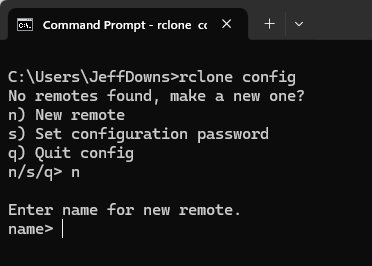
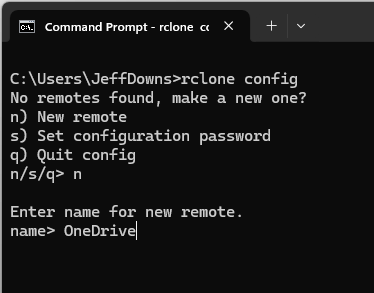
commit

Changed region(s): [[0.0, 0.0, 1.0, 1.0], [0.5323, 0.4211, 0.7392, 0.5414], [0.6801, 0.0602, 1.0, 0.1504]]

diff --git a/HowTo/RCLONE/Readme.md b/HowTo/RCLONE/Readme.md
@@ -23,18 +23,81 @@ rclone config
 
 ![alt text](Pictures/1.png)
 
-5. Type N for New remote
+5. Type N for New remote and give it a name. Pay attention to the name the command we will use later is Case Sensitive
 
 ![alt text](Pictures/2.png)
+
+6. Now you will be presented with a list of cloud sources. Scroll through the list and find OneDrive. For this example 36 will be what we are looking for. 
+
+![alt text](Pictures/3.png)
+
+![alt text](Pictures/4.png)
+
+7. In this example we are going to be using our M365 credentials to log onto our OneDrive. It is optional to setup an enterprise application, but for us just press enter
+
+![alt text](Pictures/5.png)
+
+8. Press enter again
+
+![alt text](Pictures/6.png)
+
+9. Now select your region
+
+![alt text](Pictures/7.png)
+
+10. Again, just press enter
+
+![alt text](Pictures/8.png)
+
+11. Again, just press enter
+
+![alt text](Pictures/9.png)
+
+12. Again, just press enter
+
+![alt text](Pictures/10.png)
+
+13. In another window, it will log you on with your M365 credentials. 
+
+![alt text](Pictures/11.png)
+
+14. Now select option 1 for Onedrive. Notice at this point you can also do sharepoint
+
+![alt text](Pictures/11.png)
+
+15. At this point you will be presented with what you want to connect to. In my example I have 2. I am going to connect to option 2
+
+![alt text](Pictures/12.png)
+
+16. Just press enter to accept the defaults
+
+![alt text](Pictures/13.png)
+
+17. It will create a token at this point and show you the token. Just accept the defaults
+
+![alt text](Pictures/14.png)
+
+18. Now you see you have configured the connection
+
+![alt text](Pictures/15.png)
+
+19. Press q and enter to quit
+
+![alt text](Pictures/16.png)
+
+19. Now you can run the following command to map to OneDrive. 
+
+```
+rclone --vfs-cache-mode writes mount sharepoint: *
+```
+
 
 
 
 
 ## Command to Mount SharePoint 
 
-```
-rclone --vfs-cache-mode writes mount sharepoint: *
-```
+
 
 ## Command (Example of copying file from D drive on local machine to Z drive the mounted SharePoint folder)
 
